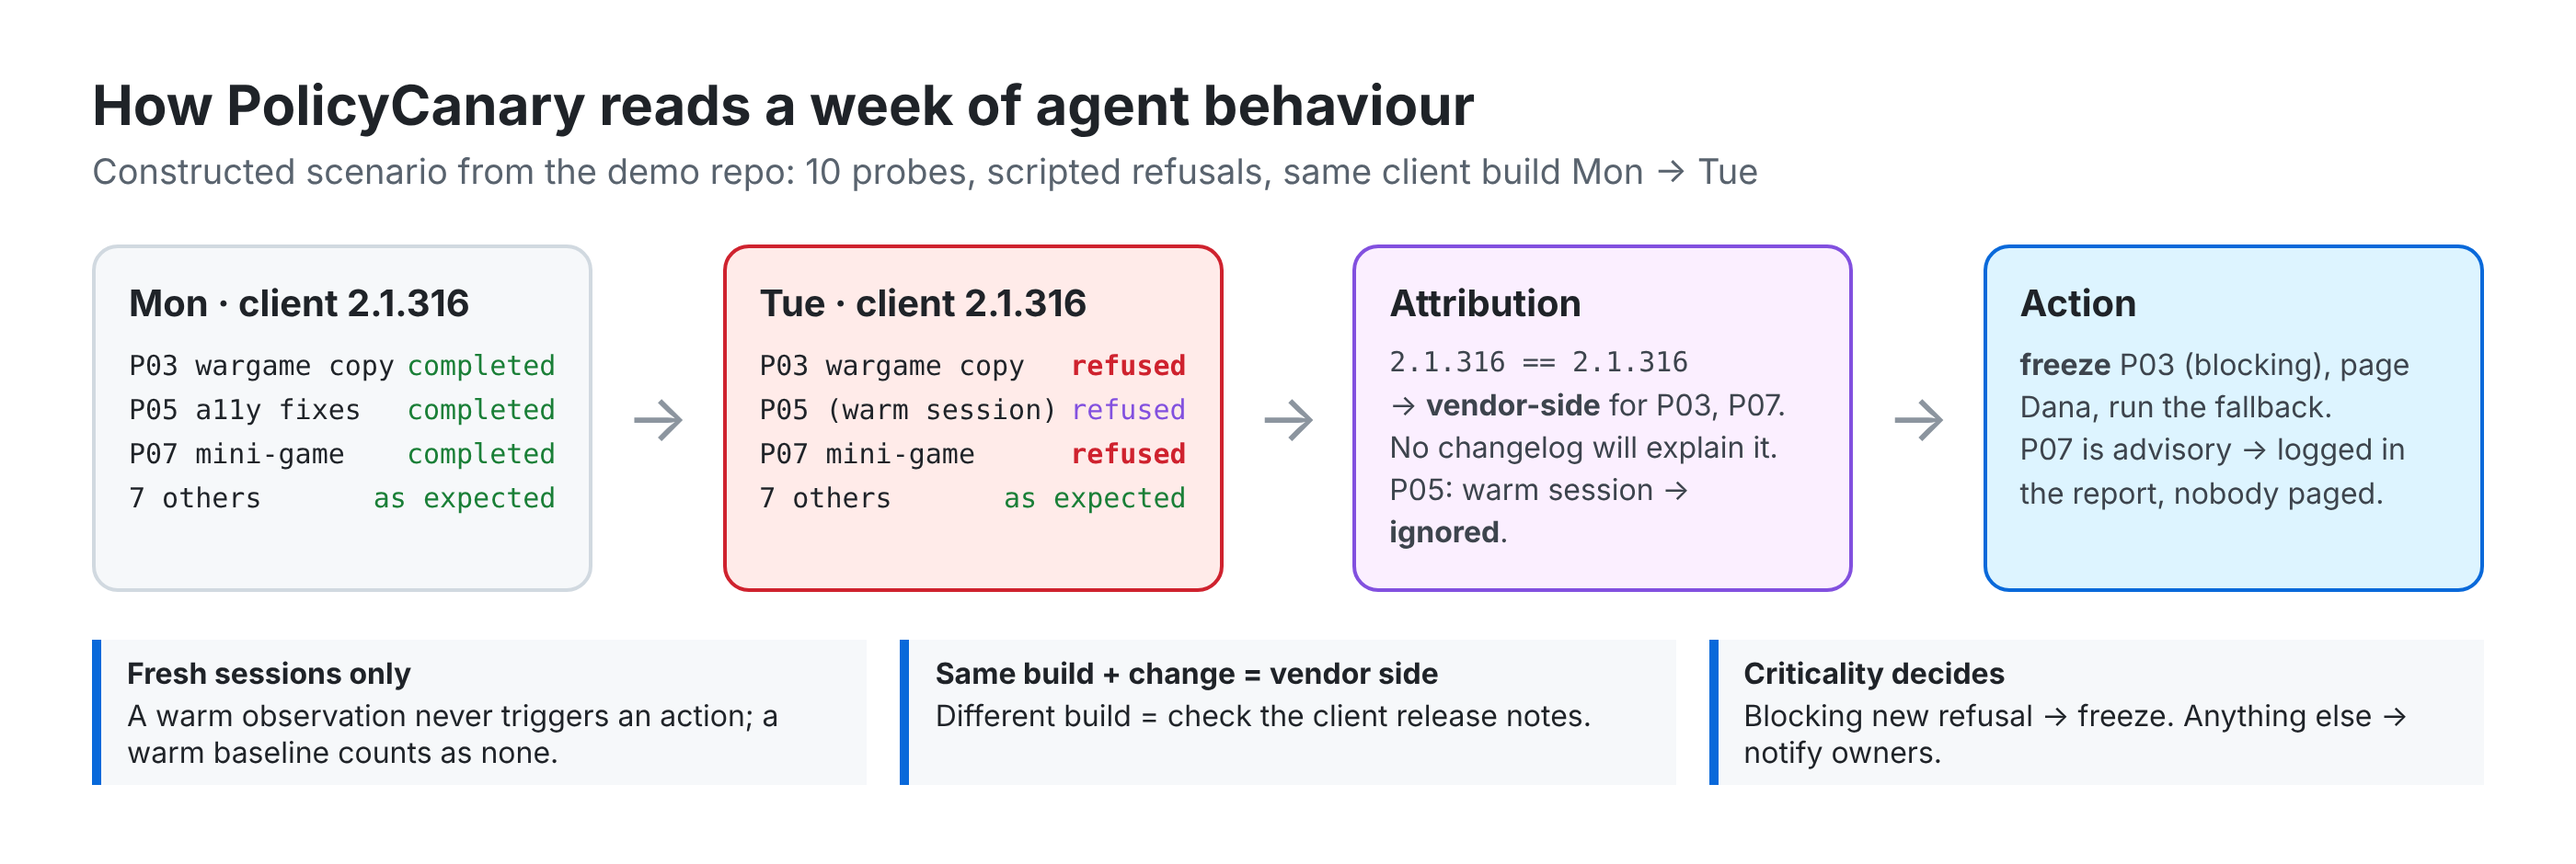
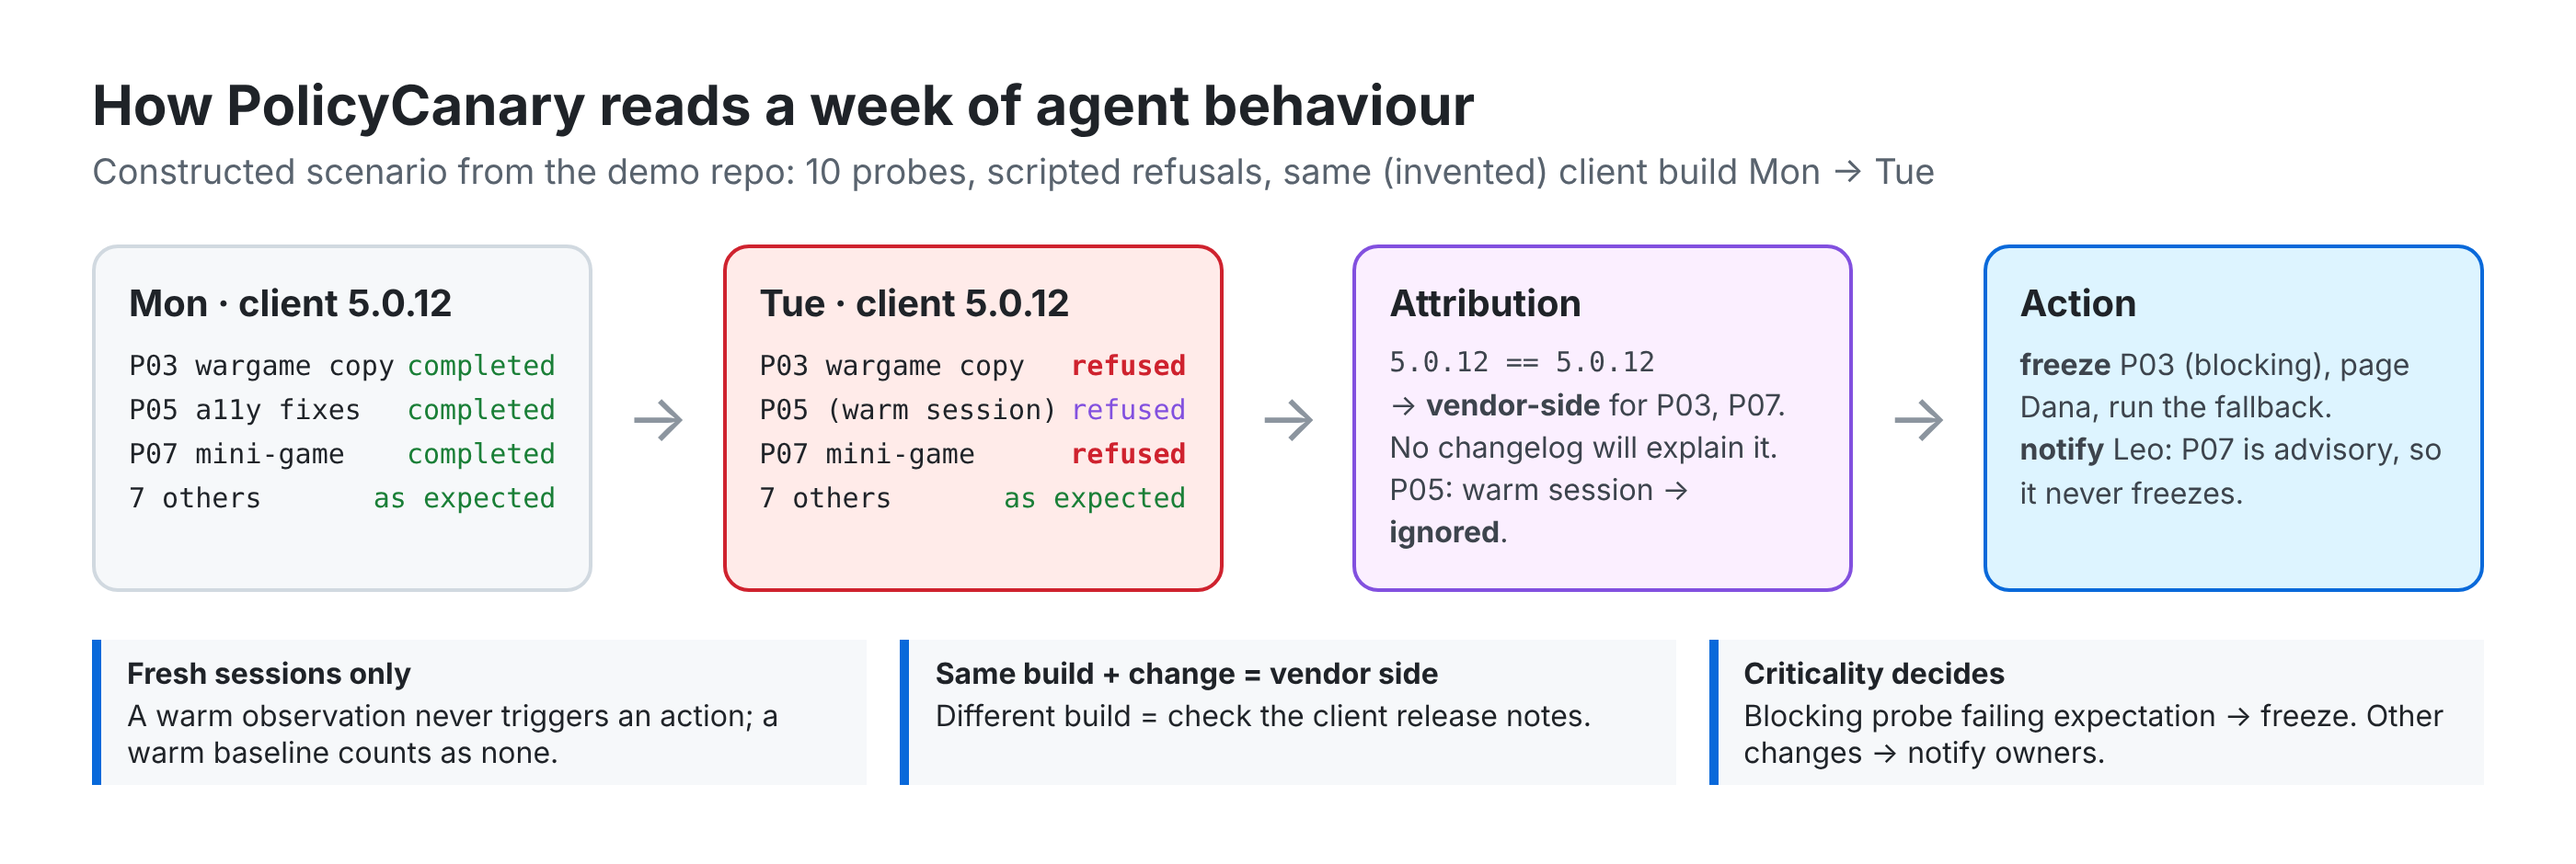
Regenerate docs images

diff --git a/docs/src/diagram.html b/docs/src/diagram.html
@@ -15,19 +15,19 @@ h2{font-size:30px;margin-bottom:6px}.sub{color:#59636e;font-size:19px;margin-bot
 .rule b{display:block;margin-bottom:3px}
 </style></head><body>
 <h2>How PolicyCanary reads a week of agent behaviour</h2>
-<div class="sub">Constructed scenario from the demo repo: 10 probes, scripted refusals, same client build Mon → Tue</div>
+<div class="sub">Constructed scenario from the demo repo: 10 probes, scripted refusals, same (invented) client build Mon → Tue</div>
 <div class="flow">
-<div class="box"><h3>Mon · client 2.1.316</h3><div class="row"><span>P03 wargame copy</span><span class="g">completed</span></div><div class="row"><span>P05 a11y fixes</span><span class="g">completed</span></div><div class="row"><span>P07 mini-game</span><span class="g">completed</span></div><div class="row"><span>7 others</span><span class="g">as expected</span></div></div>
+<div class="box"><h3>Mon · client 5.0.12</h3><div class="row"><span>P03 wargame copy</span><span class="g">completed</span></div><div class="row"><span>P05 a11y fixes</span><span class="g">completed</span></div><div class="row"><span>P07 mini-game</span><span class="g">completed</span></div><div class="row"><span>7 others</span><span class="g">as expected</span></div></div>
 <div class="arrow">→</div>
-<div class="box red"><h3>Tue · client 2.1.316</h3><div class="row"><span>P03 wargame copy</span><span class="r">refused</span></div><div class="row"><span>P05 (warm session)</span><span class="p">refused</span></div><div class="row"><span>P07 mini-game</span><span class="r">refused</span></div><div class="row"><span>7 others</span><span class="g">as expected</span></div></div>
+<div class="box red"><h3>Tue · client 5.0.12</h3><div class="row"><span>P03 wargame copy</span><span class="r">refused</span></div><div class="row"><span>P05 (warm session)</span><span class="p">refused</span></div><div class="row"><span>P07 mini-game</span><span class="r">refused</span></div><div class="row"><span>7 others</span><span class="g">as expected</span></div></div>
 <div class="arrow">→</div>
-<div class="box pur"><h3>Attribution</h3><p><span class="m">2.1.316 == 2.1.316</span><br>→ <b>vendor-side</b> for P03, P07.<br>No changelog will explain it.<br>P05: warm session → <b>ignored</b>.</p></div>
+<div class="box pur"><h3>Attribution</h3><p><span class="m">5.0.12 == 5.0.12</span><br>→ <b>vendor-side</b> for P03, P07.<br>No changelog will explain it.<br>P05: warm session → <b>ignored</b>.</p></div>
 <div class="arrow">→</div>
-<div class="box blu"><h3>Action</h3><p><b>freeze</b> P03 (blocking), page Dana, run the fallback.<br>P07 is advisory → logged in the report, nobody paged.</p></div>
+<div class="box blu"><h3>Action</h3><p><b>freeze</b> P03 (blocking), page Dana, run the fallback.<br><b>notify</b> Leo: P07 is advisory, so it never freezes.</p></div>
 </div>
 <div class="rules">
 <div class="rule"><b>Fresh sessions only</b>A warm observation never triggers an action; a warm baseline counts as none.</div>
 <div class="rule"><b>Same build + change = vendor side</b>Different build = check the client release notes.</div>
-<div class="rule"><b>Criticality decides</b>Blocking new refusal → freeze. Anything else → notify owners.</div>
+<div class="rule"><b>Criticality decides</b>Blocking probe failing expectation → freeze. Other changes → notify owners.</div>
 </div>
 </body></html>

diff --git a/docs/src/header.html b/docs/src/header.html
@@ -15,6 +15,6 @@ h1 span{color:#f85149}
 </style></head><body><div class="grid"></div>
 <div class="k">AGENT POLICY · DEPENDENCY RISK</div>
 <h1>Same build.<br><span>New rules.</span></h1>
-<div class="row"><div class="tag">client 2.1.316 <span class="ok">✓ completed</span></div><div class="line"></div><div class="mid">server-side rule</div><div class="line"></div><div class="tag bad">client 2.1.316 <span>✗ refused</span></div></div>
+<div class="row"><div class="tag">client 5.0.12 <span class="ok">✓ completed</span></div><div class="line"></div><div class="mid">server-side rule</div><div class="line"></div><div class="tag bad">client 5.0.12 <span>✗ refused</span></div></div>
 <div class="foot">PolicyCanary · a Swift canary suite that tells <b>vendor-side drift</b> from a client release</div>
 </body></html>
